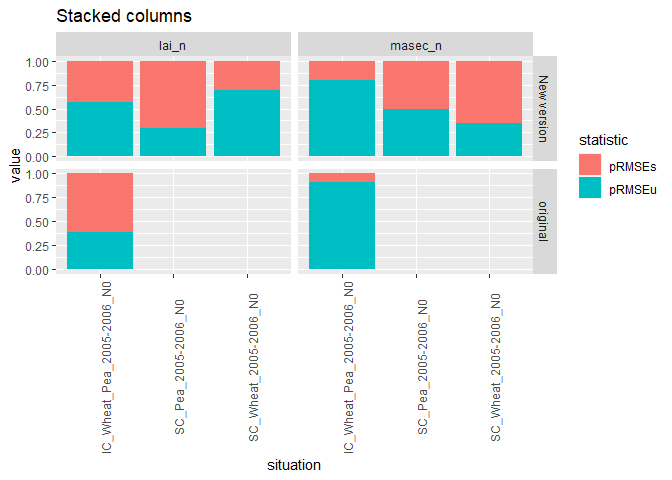
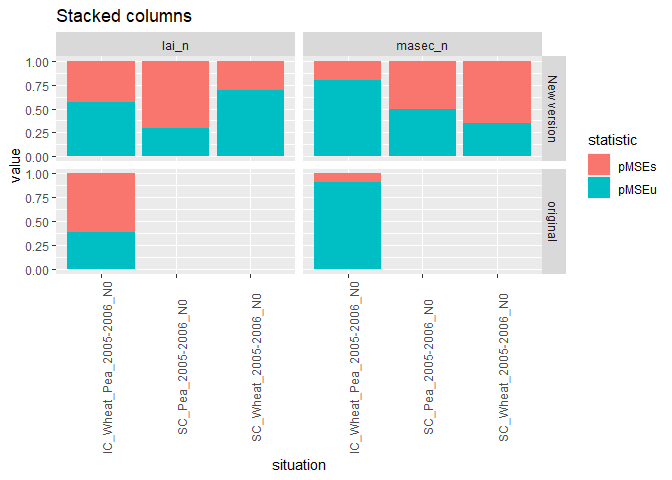
Upadte README.md

diff --git a/README.md b/README.md
@@ -350,7 +350,7 @@ Here is an application of summary statistics for the 3 situations:
 ``` r
 summary(sim, obs= obs, all_situations = FALSE)
 #> ! Two columns have the same name with different typographies of the variable name : qnplanteTwo columns have the same name with different typographies of the variable name : qnplante_sd
-#> # A tibble: 6 x 40
+#> # A tibble: 6 x 41
 #>   group situation variable n_obs mean_obs mean_sim r_means sd_obs sd_sim CV_obs
 #>   <chr> <chr>     <chr>    <int>    <dbl>    <dbl>   <dbl>  <dbl>  <dbl>  <dbl>
 #> 1 Vers~ IC_Wheat~ lai_n        8    0.762    0.614    80.5  0.633  0.551   83.0
@@ -359,12 +359,12 @@ summary(sim, obs= obs, all_situations = FALSE)
 #> 4 Vers~ SC_Pea_2~ masec_n      4    5.45     4.38     80.4  3.78   3.75    69.4
 #> 5 Vers~ SC_Wheat~ lai_n        3    1.27     1.40    110.   0.440  0.624   34.5
 #> 6 Vers~ SC_Wheat~ masec_n      4    5.39     6.02    112.   3.16   3.96    58.6
-#> # ... with 30 more variables: CV_sim <dbl>, R2 <dbl>, SS_res <dbl>,
+#> # ... with 31 more variables: CV_sim <dbl>, R2 <dbl>, SS_res <dbl>,
 #> #   Inter <dbl>, Slope <dbl>, RMSE <dbl>, RMSEs <dbl>, RMSEu <dbl>,
-#> #   nRMSE <dbl>, rRMSE <dbl>, rRMSEs <dbl>, rRMSEu <dbl>, pRMSEs <dbl>,
-#> #   pRMSEu <dbl>, SDSD <dbl>, LCS <dbl>, rbias <dbl>, rSDSD <dbl>, rLCS <dbl>,
-#> #   MAE <dbl>, FVU <dbl>, MSE <dbl>, EF <dbl>, Bias <dbl>, ABS <dbl>,
-#> #   MAPE <dbl>, RME <dbl>, tSTUD <dbl>, tLimit <dbl>, Decision <chr>
+#> #   nRMSE <dbl>, rRMSE <dbl>, rRMSEs <dbl>, rRMSEu <dbl>, pMSEs <dbl>,
+#> #   pMSEu <dbl>, Bias2 <dbl>, SDSD <dbl>, LCS <dbl>, rbias2 <dbl>, rSDSD <dbl>,
+#> #   rLCS <dbl>, MAE <dbl>, FVU <dbl>, MSE <dbl>, EF <dbl>, Bias <dbl>,
+#> #   ABS <dbl>, MAPE <dbl>, RME <dbl>, tSTUD <dbl>, tLimit <dbl>, Decision <chr>
 ```
 
 Note that as for the `plot()` function the `obs` argument is explicitly
@@ -378,17 +378,17 @@ statistical criteria for all situations at once.
 ``` r
 summary(sim, obs= obs, all_situations = TRUE)
 #> ! Two columns have the same name with different typographies of the variable name : qnplanteTwo columns have the same name with different typographies of the variable name : qnplante_sd
-#> # A tibble: 2 x 40
+#> # A tibble: 2 x 41
 #>   group situation variable n_obs mean_obs mean_sim r_means sd_obs sd_sim CV_obs
 #>   <chr> <chr>     <chr>    <int>    <dbl>    <dbl>   <dbl>  <dbl>  <dbl>  <dbl>
 #> 1 Vers~ all_situ~ lai_n       14     1.27     1.02    80.6   1.09  0.870   85.4
 #> 2 Vers~ all_situ~ masec_n     18     4.33     4.14    95.7   2.71  2.98    62.6
-#> # ... with 30 more variables: CV_sim <dbl>, R2 <dbl>, SS_res <dbl>,
+#> # ... with 31 more variables: CV_sim <dbl>, R2 <dbl>, SS_res <dbl>,
 #> #   Inter <dbl>, Slope <dbl>, RMSE <dbl>, RMSEs <dbl>, RMSEu <dbl>,
-#> #   nRMSE <dbl>, rRMSE <dbl>, rRMSEs <dbl>, rRMSEu <dbl>, pRMSEs <dbl>,
-#> #   pRMSEu <dbl>, SDSD <dbl>, LCS <dbl>, rbias <dbl>, rSDSD <dbl>, rLCS <dbl>,
-#> #   MAE <dbl>, FVU <dbl>, MSE <dbl>, EF <dbl>, Bias <dbl>, ABS <dbl>,
-#> #   MAPE <dbl>, RME <dbl>, tSTUD <dbl>, tLimit <dbl>, Decision <chr>
+#> #   nRMSE <dbl>, rRMSE <dbl>, rRMSEs <dbl>, rRMSEu <dbl>, pMSEs <dbl>,
+#> #   pMSEu <dbl>, Bias2 <dbl>, SDSD <dbl>, LCS <dbl>, rbias2 <dbl>, rSDSD <dbl>,
+#> #   rLCS <dbl>, MAE <dbl>, FVU <dbl>, MSE <dbl>, EF <dbl>, Bias <dbl>,
+#> #   ABS <dbl>, MAPE <dbl>, RME <dbl>, tSTUD <dbl>, tLimit <dbl>, Decision <chr>
 ```
 
 #### 2.2.1 Several groups
@@ -400,19 +400,19 @@ simulations objects one after the other (as for the `plot()` function).
 summary(sim, sim2, obs= obs)
 #> ! Two columns have the same name with different typographies of the variable name : qnplanteTwo columns have the same name with different typographies of the variable name : qnplante_sd
 #> ! Two columns have the same name with different typographies of the variable name : qnplanteTwo columns have the same name with different typographies of the variable name : qnplante_sd
-#> # A tibble: 4 x 40
+#> # A tibble: 4 x 41
 #>   group situation variable n_obs mean_obs mean_sim r_means sd_obs sd_sim CV_obs
 #>   <chr> <chr>     <chr>    <int>    <dbl>    <dbl>   <dbl>  <dbl>  <dbl>  <dbl>
 #> 1 Vers~ all_situ~ lai_n       14    1.27     1.02     80.6  1.09   0.870   85.4
 #> 2 Vers~ all_situ~ masec_n     18    4.33     4.14     95.7  2.71   2.98    62.6
 #> 3 Vers~ all_situ~ lai_n        8    0.762    0.599    78.6  0.633  0.438   83.0
 #> 4 Vers~ all_situ~ masec_n     10    3.45     3.32     96.1  1.96   3.27    56.9
-#> # ... with 30 more variables: CV_sim <dbl>, R2 <dbl>, SS_res <dbl>,
+#> # ... with 31 more variables: CV_sim <dbl>, R2 <dbl>, SS_res <dbl>,
 #> #   Inter <dbl>, Slope <dbl>, RMSE <dbl>, RMSEs <dbl>, RMSEu <dbl>,
-#> #   nRMSE <dbl>, rRMSE <dbl>, rRMSEs <dbl>, rRMSEu <dbl>, pRMSEs <dbl>,
-#> #   pRMSEu <dbl>, SDSD <dbl>, LCS <dbl>, rbias <dbl>, rSDSD <dbl>, rLCS <dbl>,
-#> #   MAE <dbl>, FVU <dbl>, MSE <dbl>, EF <dbl>, Bias <dbl>, ABS <dbl>,
-#> #   MAPE <dbl>, RME <dbl>, tSTUD <dbl>, tLimit <dbl>, Decision <chr>
+#> #   nRMSE <dbl>, rRMSE <dbl>, rRMSEs <dbl>, rRMSEu <dbl>, pMSEs <dbl>,
+#> #   pMSEu <dbl>, Bias2 <dbl>, SDSD <dbl>, LCS <dbl>, rbias2 <dbl>, rSDSD <dbl>,
+#> #   rLCS <dbl>, MAE <dbl>, FVU <dbl>, MSE <dbl>, EF <dbl>, Bias <dbl>,
+#> #   ABS <dbl>, MAPE <dbl>, RME <dbl>, tSTUD <dbl>, tLimit <dbl>, Decision <chr>
 ```
 
 We can also name the corresponding group in the plot by naming them
@@ -422,19 +422,19 @@ while passing to the `summary()` function:
 summary("New version"= sim, original= sim2, obs= obs)
 #> ! Two columns have the same name with different typographies of the variable name : qnplanteTwo columns have the same name with different typographies of the variable name : qnplante_sd
 #> ! Two columns have the same name with different typographies of the variable name : qnplanteTwo columns have the same name with different typographies of the variable name : qnplante_sd
-#> # A tibble: 4 x 40
+#> # A tibble: 4 x 41
 #>   group situation variable n_obs mean_obs mean_sim r_means sd_obs sd_sim CV_obs
 #>   <chr> <chr>     <chr>    <int>    <dbl>    <dbl>   <dbl>  <dbl>  <dbl>  <dbl>
 #> 1 New ~ all_situ~ lai_n       14    1.27     1.02     80.6  1.09   0.870   85.4
 #> 2 New ~ all_situ~ masec_n     18    4.33     4.14     95.7  2.71   2.98    62.6
 #> 3 orig~ all_situ~ lai_n        8    0.762    0.599    78.6  0.633  0.438   83.0
 #> 4 orig~ all_situ~ masec_n     10    3.45     3.32     96.1  1.96   3.27    56.9
-#> # ... with 30 more variables: CV_sim <dbl>, R2 <dbl>, SS_res <dbl>,
+#> # ... with 31 more variables: CV_sim <dbl>, R2 <dbl>, SS_res <dbl>,
 #> #   Inter <dbl>, Slope <dbl>, RMSE <dbl>, RMSEs <dbl>, RMSEu <dbl>,
-#> #   nRMSE <dbl>, rRMSE <dbl>, rRMSEs <dbl>, rRMSEu <dbl>, pRMSEs <dbl>,
-#> #   pRMSEu <dbl>, SDSD <dbl>, LCS <dbl>, rbias <dbl>, rSDSD <dbl>, rLCS <dbl>,
-#> #   MAE <dbl>, FVU <dbl>, MSE <dbl>, EF <dbl>, Bias <dbl>, ABS <dbl>,
-#> #   MAPE <dbl>, RME <dbl>, tSTUD <dbl>, tLimit <dbl>, Decision <chr>
+#> #   nRMSE <dbl>, rRMSE <dbl>, rRMSEs <dbl>, rRMSEu <dbl>, pMSEs <dbl>,
+#> #   pMSEu <dbl>, Bias2 <dbl>, SDSD <dbl>, LCS <dbl>, rbias2 <dbl>, rSDSD <dbl>,
+#> #   rLCS <dbl>, MAE <dbl>, FVU <dbl>, MSE <dbl>, EF <dbl>, Bias <dbl>,
+#> #   ABS <dbl>, MAPE <dbl>, RME <dbl>, tSTUD <dbl>, tLimit <dbl>, Decision <chr>
 ```
 
 By default, all statistics are returned by `summary`, but you can filter
@@ -498,7 +498,7 @@ In the previous examples, each line corresponds to a statistical
 criterion. These can also be stacked.
 
 ``` r
-stats= summary("New version"= sim, original= sim2, obs= obs, stat = c("pRMSEs","pRMSEu"), all_situations = FALSE)
+stats= summary("New version"= sim, original= sim2, obs= obs, stat = c("pMSEs","pMSEu"), all_situations = FALSE)
 #> ! Two columns have the same name with different typographies of the variable name : qnplanteTwo columns have the same name with different typographies of the variable name : qnplante_sd
 plot(stats, xvar = "situation", title= "Stacked columns", group_bar = "stack")
 ```
@@ -508,7 +508,7 @@ plot(stats, xvar = "situation", title= "Stacked columns", group_bar = "stack")
 Or put side by side.
 
 ``` r
-stats= summary("New version"= sim, original= sim2, obs= obs, stat = c("pRMSEs","pRMSEu"), all_situations = FALSE)
+stats= summary("New version"= sim, original= sim2, obs= obs, stat = c("pMSEs","pMSEu"), all_situations = FALSE)
 #> ! Two columns have the same name with different typographies of the variable name : qnplanteTwo columns have the same name with different typographies of the variable name : qnplante_sd
 plot(stats, xvar = "situation", title= "Side-by-side columns", group_bar = "dodge")
 ```
